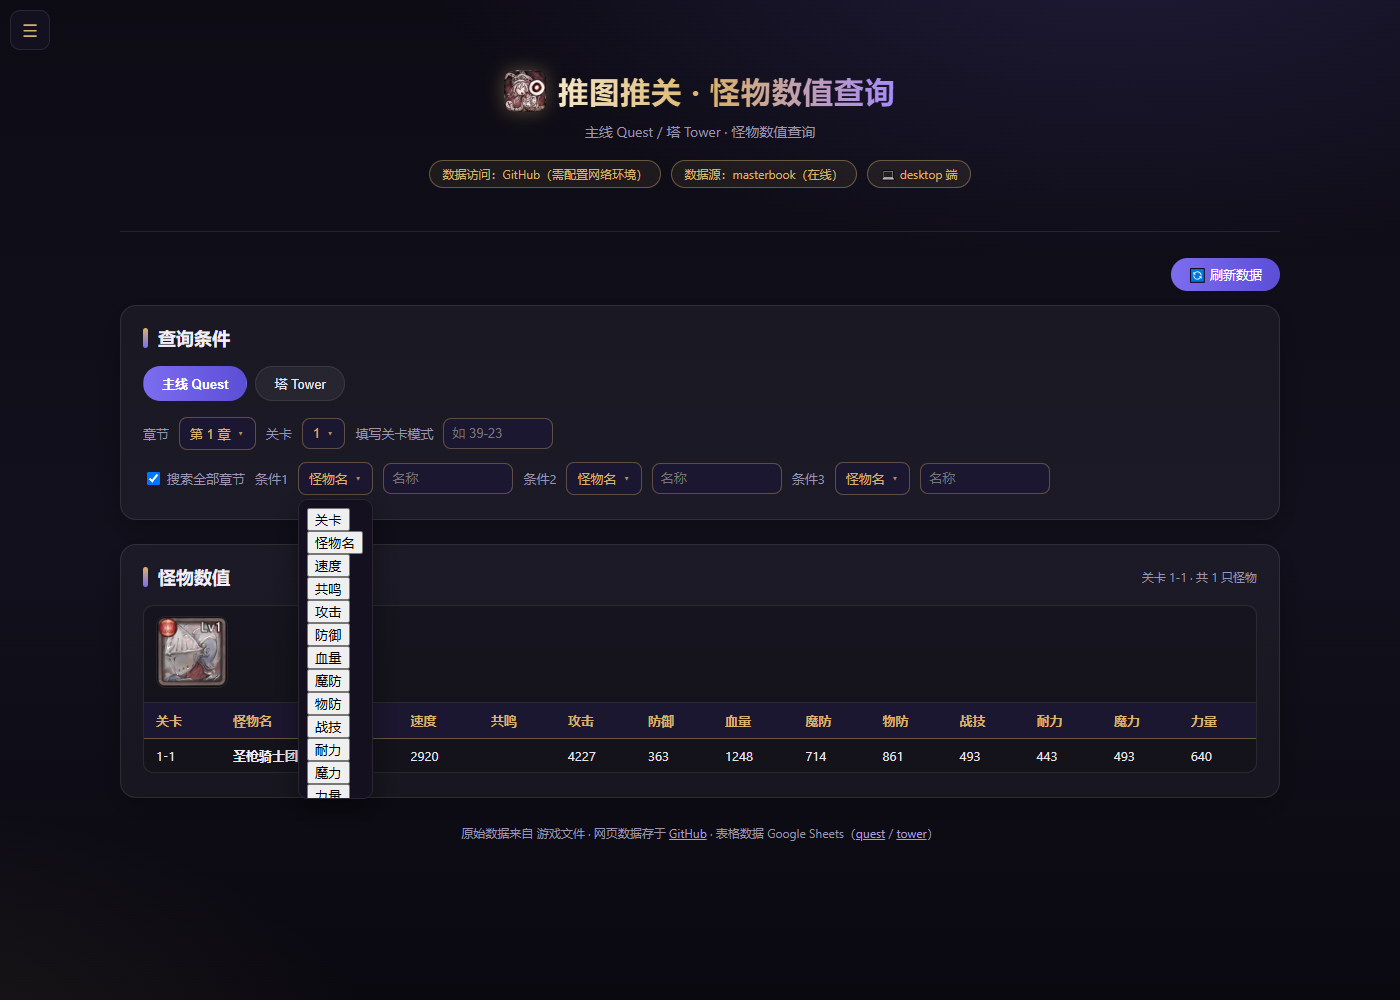
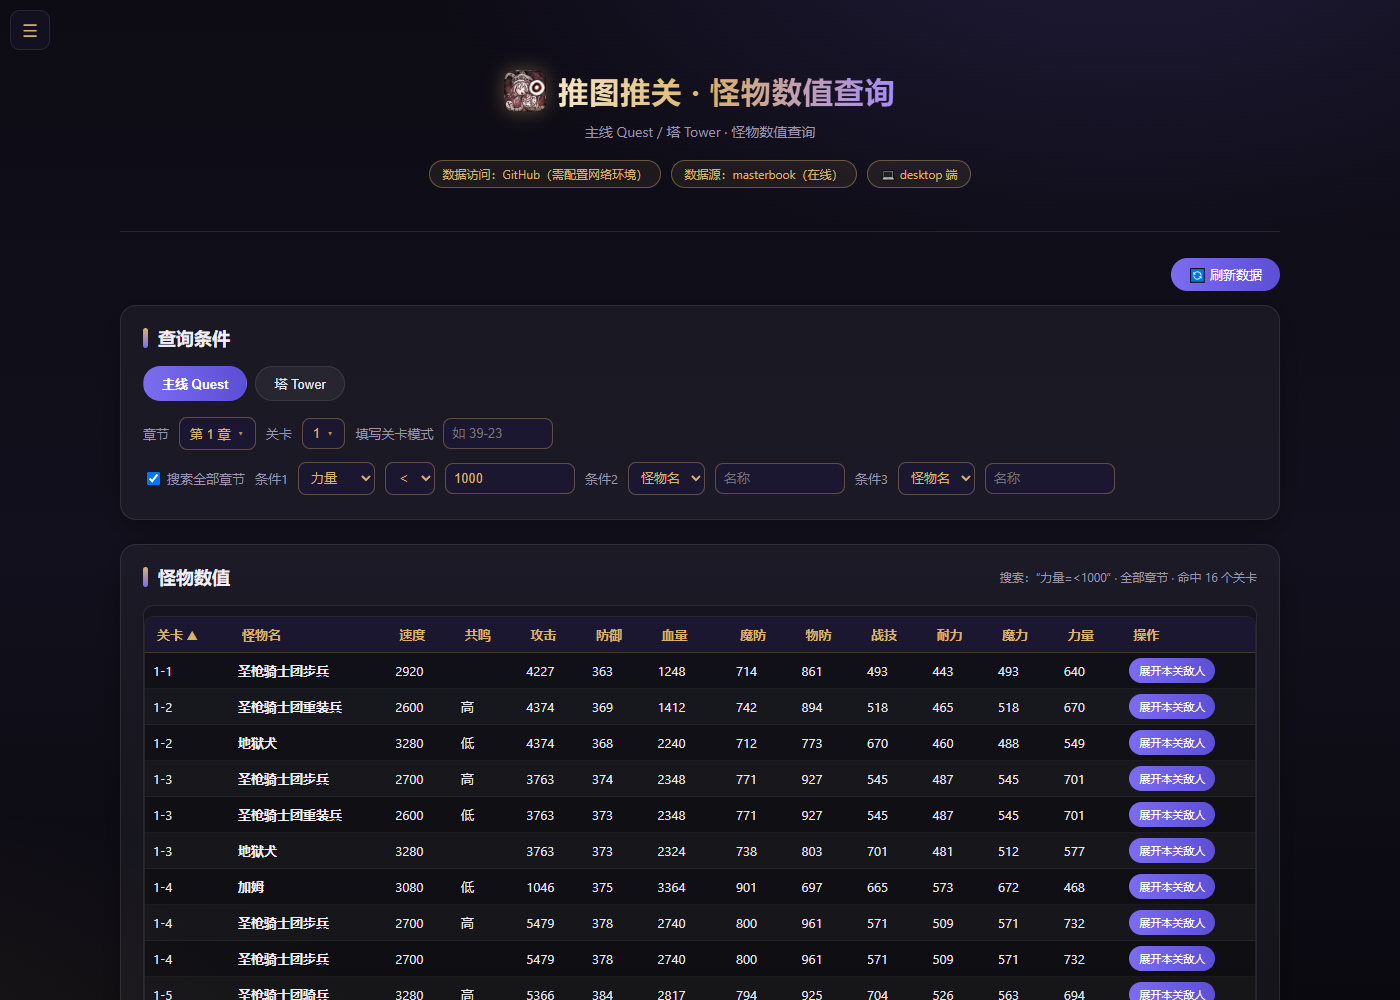
deploy: 6628fd228a4ed907d0c088a88e078f5e7faf5869

diff --git a/monsters.html b/monsters.html
@@ -80,6 +80,7 @@ section.card h2::before{content:"";width:5px;height:20px;border-radius:3px;backg
 .sres th.sortable{cursor:pointer;user-select:none}
 .sres th.sortable:hover{color:#ffe9a8}
 .qrow .cond-sel{background:#1c1730;color:var(--gold);border:1px solid rgba(217,178,106,.35);border-radius:8px;padding:7px 8px;font-size:13px;outline:none}
+.qrow .cond-op{min-width:46px}
 .sres-full-head .mini{margin-left:auto}
 .qrow input[type=text]{width:180px}
 .table-wrap{overflow-x:auto;border:1px solid var(--panel-border);border-radius:10px;background:rgba(0,0,0,.18)}
@@ -210,9 +211,9 @@ section[id]{scroll-margin-top:16px}
     <div class="qrow" style="margin-top:12px;flex-wrap:wrap">
       <label class="chk"><input type="checkbox" id="chk-all" onchange="doSearch()"> 搜索全部章节</label>
       <label id="lbl-tower-filter" style="display:none">塔类型</label><select id="sel-tower-filter" style="display:none" onchange="doSearch()"></select>
-      <label>条件1</label><div class="dd" id="dd-c1"><button class="dd-btn" onclick="toggleCondDD(1)"><span id="cdd-label-1">怪物名</span><span class="dd-arrow">▾</span></button><div class="dd-panel cdd-panel" id="cdd-panel-1" style="display:none"><div class="cdd-left" id="cdd-left-1"></div></div></div><span class="op-wrap"><span class="dd opbox" id="opbox-1"><button class="op-btn" onclick="toggleOpDD(1)"><span id="op-label-1">&gt;</span><span class="dd-arrow">▾</span></button><div class="dd-panel op-panel" id="op-panel-1" style="display:none"><button class="op-opt" data-op="gt" onclick="pickOp(1,'gt')">&gt;</button><button class="op-opt" data-op="lt" onclick="pickOp(1,'lt')">&lt;</button></div></span><input type="text" id="inp-m1" class="num-inp" style="width:130px" placeholder="值" onchange="doSearch()"></span>
-      <label>条件2</label><div class="dd" id="dd-c2"><button class="dd-btn" onclick="toggleCondDD(2)"><span id="cdd-label-2">怪物名</span><span class="dd-arrow">▾</span></button><div class="dd-panel cdd-panel" id="cdd-panel-2" style="display:none"><div class="cdd-left" id="cdd-left-2"></div></div></div><span class="op-wrap"><span class="dd opbox" id="opbox-2"><button class="op-btn" onclick="toggleOpDD(2)"><span id="op-label-2">&gt;</span><span class="dd-arrow">▾</span></button><div class="dd-panel op-panel" id="op-panel-2" style="display:none"><button class="op-opt" data-op="gt" onclick="pickOp(2,'gt')">&gt;</button><button class="op-opt" data-op="lt" onclick="pickOp(2,'lt')">&lt;</button></div></span><input type="text" id="inp-m2" class="num-inp" style="width:130px" placeholder="值" onchange="doSearch()"></span>
-      <label>条件3</label><div class="dd" id="dd-c3"><button class="dd-btn" onclick="toggleCondDD(3)"><span id="cdd-label-3">怪物名</span><span class="dd-arrow">▾</span></button><div class="dd-panel cdd-panel" id="cdd-panel-3" style="display:none"><div class="cdd-left" id="cdd-left-3"></div></div></div><span class="op-wrap"><span class="dd opbox" id="opbox-3"><button class="op-btn" onclick="toggleOpDD(3)"><span id="op-label-3">&gt;</span><span class="dd-arrow">▾</span></button><div class="dd-panel op-panel" id="op-panel-3" style="display:none"><button class="op-opt" data-op="gt" onclick="pickOp(3,'gt')">&gt;</button><button class="op-opt" data-op="lt" onclick="pickOp(3,'lt')">&lt;</button></div></span><input type="text" id="inp-m3" class="num-inp" style="width:130px" placeholder="值" onchange="doSearch()"></span>
+      <label>条件1</label><select id="sel-c1" class="cond-sel" onchange="onCondColChange(1);doSearch()"></select><select id="op-sel-1" class="cond-op" style="display:none" onchange="doSearch()"></select><input type="text" id="inp-m1" class="num-inp" style="width:130px" placeholder="值" onchange="doSearch()">
+      <label>条件2</label><select id="sel-c2" class="cond-sel" onchange="onCondColChange(2);doSearch()"></select><select id="op-sel-2" class="cond-op" style="display:none" onchange="doSearch()"></select><input type="text" id="inp-m2" class="num-inp" style="width:130px" placeholder="值" onchange="doSearch()">
+      <label>条件3</label><select id="sel-c3" class="cond-sel" onchange="onCondColChange(3);doSearch()"></select><select id="op-sel-3" class="cond-op" style="display:none" onchange="doSearch()"></select><input type="text" id="inp-m3" class="num-inp" style="width:130px" placeholder="值" onchange="doSearch()">
     </div>
   </section>
 
@@ -535,97 +536,46 @@ const NUM_COLS = [4,5,7,8,9,10,11,12,13,14,15];
 let sortCol = 0, sortDir = 1;
 let lastSearch = null;
 const COND_COLS = SEARCH_COLS.filter(([ci]) => ![2, 3, 4].includes(ci));
-const condState = [ { col: 1, op: "contains" }, { col: 1, op: "contains" }, { col: 1, op: "contains" } ];
-function colName(col){ const f = SEARCH_COLS.find(x => x[0] === col); return f ? f[1] : String(col); }
-function buildCondSelects(){
-  for (let i = 1; i <= 3; i++){
-    const lab = COND_COLS.map(([ci, nm]) => '<button type="button" data-col="' + ci + '" onclick="condPickCol(' + i + ',' + ci + ')">' + nm + '</button>').join("");
-    document.getElementById("cdd-left-" + i).innerHTML = lab;
-    condState[i - 1] = { col: 1, op: "contains" };
-    updateCondLabel(i);
-    updateOpBox(i);
-    updateCondPlaceholder(i);
-  }
-}
-function updateCondLabel(i){
-  const st = condState[i - 1];
-  const el = document.getElementById("cdd-label-" + i);
-  if (!el) return;
-  el.textContent = colName(st.col);
-}
-function updateOpBox(i){
-  const st = condState[i - 1];
-  const box = document.getElementById("opbox-" + i);
-  const lab = document.getElementById("op-label-" + i);
-  if (!box || !lab) return;
-  if (NUM_COLS.indexOf(st.col) >= 0){
-    box.style.display = "";
-    lab.textContent = st.op === "lt" ? "<" : ">";
-  } else {
-    box.style.display = "none";
-  }
-}
-function updateCondPlaceholder(i){
-  const inp = document.getElementById("inp-m" + i);
-  const col = condState[i - 1].col;
-  if (!inp) return;
-  if (NUM_COLS.indexOf(col) >= 0) inp.placeholder = "数字（可用万/亿）";
-  else if (col === 0) inp.placeholder = "如 39-23";
-  else if (col === 1 || col === 6) inp.placeholder = "名称";
-  else inp.placeholder = "文本";
-}
-function toggleCondDD(i){
-  const pan = document.getElementById("cdd-panel-" + i);
-  if (!pan) return;
-  const open = pan.style.display !== "none";
-  document.querySelectorAll(".dd-panel").forEach(p => p.style.display = "none");
-  if (!open){
-    document.querySelectorAll("#cdd-left-" + i + " button").forEach(b => b.classList.toggle("sel", parseInt(b.dataset.col, 10) === condState[i - 1].col));
-    pan.style.display = "block";
-  }
-}
-function closeCondDD(i){
-  const pan = document.getElementById("cdd-panel-" + i);
-  if (pan) pan.style.display = "none";
-}
-function condPickCol(i, col){
-  const st = condState[i - 1];
-  st.col = col;
-  if (NUM_COLS.indexOf(col) >= 0){ if (st.op === "contains") st.op = "gt"; }
-  else { st.op = "contains"; }
-  updateCondLabel(i);
-  updateOpBox(i);
-  updateCondPlaceholder(i);
-  closeCondDD(i);
-  doSearch();
-}
-function toggleOpDD(i){
-  const pan = document.getElementById("op-panel-" + i);
-  if (!pan) return;
-  const open = pan.style.display !== "none";
-  document.querySelectorAll(".dd-panel").forEach(p => p.style.display = "none");
-  if (!open){
-    document.querySelectorAll("#op-panel-" + i + " .op-opt").forEach(b => b.classList.toggle("sel", b.dataset.op === condState[i - 1].op));
-    pan.style.display = "block";
-  }
-}
-function pickOp(i, op){
-  condState[i - 1].op = op;
-  updateOpBox(i);
-  const pan = document.getElementById("op-panel-" + i);
-  if (pan) pan.style.display = "none";
-  doSearch();
-}
 const OP_MAP = { gt: ">", lt: "<" };
+function buildCondSelects(){
+  const opts = COND_COLS.map(([ci, lab]) => '<option value="' + ci + '">' + lab + '</option>').join("");
+  const opOpts = '<option value="gt">&gt;</option><option value="lt">&lt;</option>';
+  for (let i = 1; i <= 3; i++){
+    const sel = document.getElementById("sel-c" + i);
+    sel.innerHTML = opts;
+    sel.value = "1"; // 默认怪物名
+    document.getElementById("op-sel-" + i).innerHTML = opOpts;
+    onCondColChange(i);
+  }
+}
+function onCondColChange(i){
+  const sel = document.getElementById("sel-c" + i);
+  const ops = document.getElementById("op-sel-" + i);
+  const inp = document.getElementById("inp-m" + i);
+  if (!sel || !inp || !ops) return;
+  const col = parseInt(sel.value, 10);
+  if (NUM_COLS.indexOf(col) >= 0){
+    ops.style.display = "";
+    inp.placeholder = "数字（可用万/亿）";
+  } else {
+    ops.style.display = "none";
+    if (col === 0) inp.placeholder = "如 39-23";
+    else if (col === 1 || col === 6) inp.placeholder = "名称";
+    else inp.placeholder = "文本";
+  }
+}
 function activeConds(){
   const out = [];
-  for (let i = 0; i < 3; i++){
-    const st = condState[i];
-    const val = document.getElementById("inp-m" + (i + 1)).value.trim();
+  for (let i = 1; i <= 3; i++){
+    const cv = parseInt(document.getElementById("sel-c" + i).value, 10);
+    const col = isNaN(cv) ? 1 : cv;
+    const val = document.getElementById("inp-m" + i).value.trim();
     if (val){
+      const ops = document.getElementById("op-sel-" + i);
+      const op = (ops && ops.style.display !== "none") ? ops.value : "contains";
       let v = val;
-      if (OP_MAP[st.op] !== undefined && !/^(>=|<=|>|<)/.test(val)) v = OP_MAP[st.op] + val;
-      out.push({ col: st.col, val: v });
+      if (OP_MAP[op] !== undefined && !/^(>=|<=|>|<)/.test(val)) v = OP_MAP[op] + val;
+      out.push({ col: col, val: v });
     }
   }
   return out;
